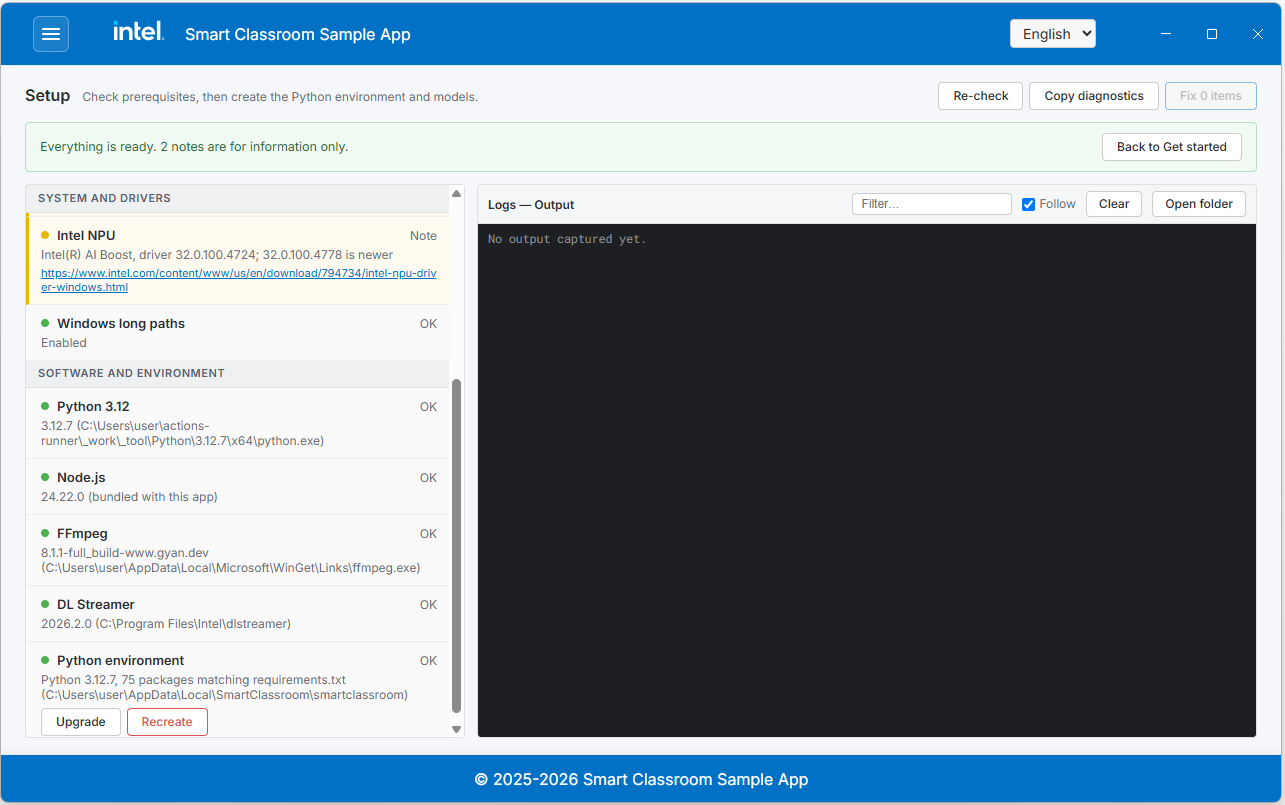
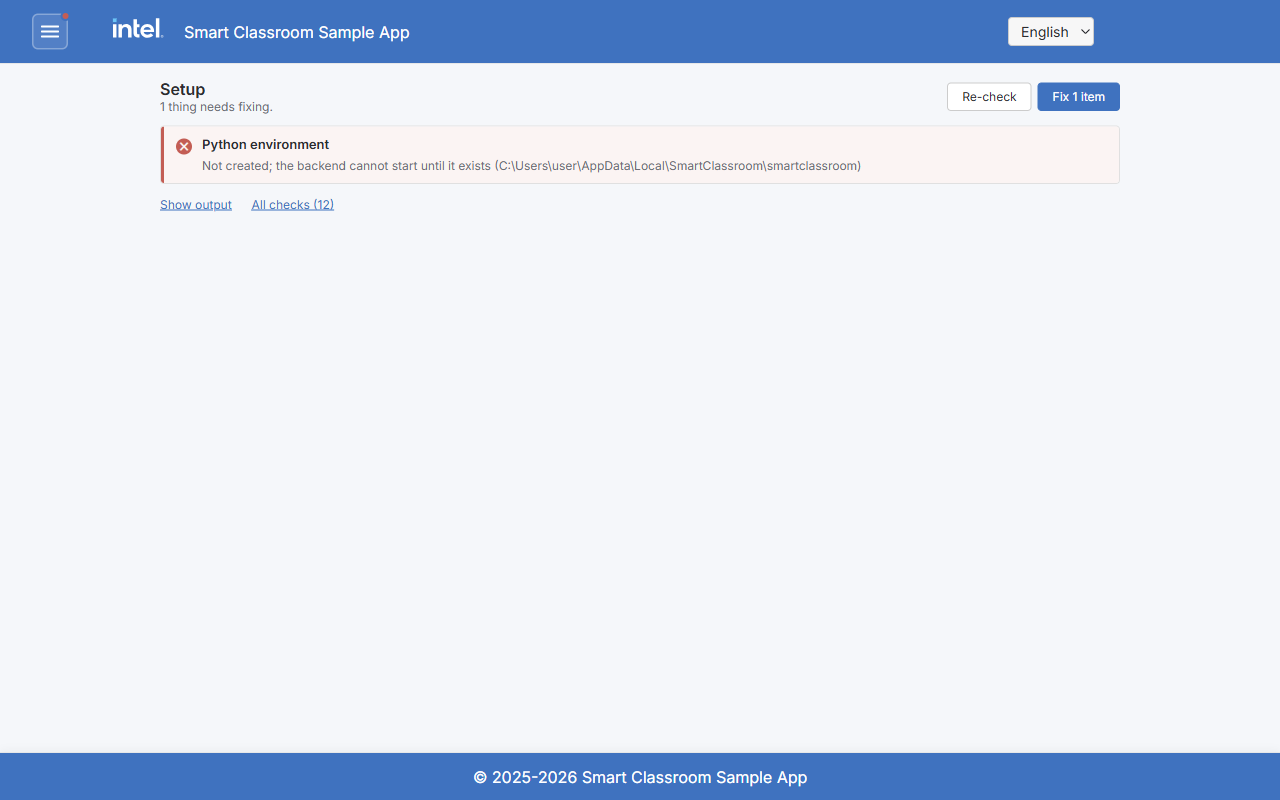
[smart classroom] Update docs for first run flow

diff --git a/smart-classroom/Windows/ui/src/components/assistant/FeaturesPage.tsx b/smart-classroom/Windows/ui/src/components/assistant/FeaturesPage.tsx
@@ -48,7 +48,7 @@ const FeaturesPage: React.FC<FeaturesPageProps> = ({ onBack, onContinue, continu
         title={t('assistant.pages.features', 'Features')}
         subtitle={t(
           'assistant.features.lead',
-          'Choose what you will use. Setup only downloads what these need. Open a group for its features and settings.'
+          "Choose what you will use. Setup only downloads what these need. A group's checkbox turns all of its features on or off."
         )}
       />
 

diff --git a/smart-classroom/docs/user-guide/get-started/get-started-windows.md b/smart-classroom/docs/user-guide/get-started/get-started-windows.md
@@ -43,75 +43,174 @@ the Python environment, sessions, and logs are stored separately for each Window
 user, also when the app is installed for everyone; see
 [Where Your Data Is Stored](#where-your-data-is-stored).
 
-## Step 3: Let the App Prepare Itself
+## Step 3: Run the Setup Assistant
 
 Launch **Smart Classroom** from the desktop or the Start menu. On the first launch the
-app prepares itself without being asked: it installs Python 3.12 and FFmpeg when they
-are missing, creates the Python environment and, when grading is enabled, the grading
-conversion environment and layout detection model. It then starts the backend. Keep the
-window open until it finishes.
+app opens the **setup assistant**. It installs everything Smart Classroom needs: Python
+3.12 and FFmpeg when they are missing, the Python environment, and the prerequisites of
+the features you choose. It then starts the backend, which downloads the AI models.
+This downloads several gigabytes and takes a while; you can leave it running.
 
-While this runs, the app shows the **Get started** screen, which lists what is still
-being worked on. Open **Setup** to follow the progress in its **Output** pane. The menu
-button at the top left switches between screens.
+The steps on the left show where you are: **Welcome**, **Network**, **Features**,
+**Administrator tasks** (only when needed), **Install**, and **Done**. The language
+selector at the top switches between English and Chinese.
 
-![Get started screen on first launch](../_assets/windows-app-get-started.png)<!--hide_directive{w=700px}hide_directive-->
+### Welcome: Install with the Recommended Settings
 
-Two items need you, because they show an administrator prompt: enabling Windows long
-paths, and installing DL Streamer for video analytics. Follow the links on **Get
-started**, or open **Setup** directly, for these and for any step that failed:
+**Welcome** checks this PC and tests the network as soon as it opens:
+
+- **This PC**: the operating system, processor, memory, free disk space, and drivers.
+  Warnings do not stop the installation.
+- **Network**: how the downloads connect. The assistant finds the proxy from the app's
+  saved settings, the `HTTP_PROXY` and `HTTPS_PROXY` environment variables, or the
+  Windows proxy settings, and tests that the download hosts answer through it.
+- **AI models**: where the models come from. When Hugging Face cannot be reached and
+  ModelScope can, the assistant chooses ModelScope.
+
+When the checks pass, a countdown starts: "Installing with recommended settings in
+15 s". When it ends, the installation starts with the recommended settings, so a first
+launch needs no input. Select **Install now** to start at once, or **Customize** to
+stop the countdown and choose the settings yourself.
+
+![Setup assistant: Welcome](../_assets/windows-app-wizard-welcome.png)<!--hide_directive{w=700px}hide_directive-->
+
+The countdown does not start in two cases, and the assistant waits for you instead:
+
+- **The network test fails.** **Network** opens and shows what each download host
+  answered: "Setup could not reach the download hosts, so it has not started
+  installing." Enter or correct the proxy, select **Test connection**, then select
+  **Next**.
+- **Less than 50 GB of disk space is free.** **Welcome** shows a warning, because
+  running out of space part-way is hard to recover from. Free some space, or select
+  **Continue anyway** to install regardless.
+
+### Customize: Network, Features, and Administrator Tasks
+
+**Customize** takes you through the settings before anything large is downloaded.
+
+**Network** shows the proxy the assistant found, and the model hub. Behind a proxy,
+enter it as `http://host:port`, or `http://user:password@host:port` when the proxy asks
+for a password. **Test connection** shows what each download host answers. Leave both
+proxies empty for a direct connection. **Next** saves the settings.
+
+![Setup assistant: Network](../_assets/windows-app-wizard-network.png)<!--hide_directive{w=700px}hide_directive-->
+
+**Features** lists the features by what you use them for: **Classroom recording**,
+**Video analytics**, **Content search**, and **Grading**. Setup only downloads what the
+features you keep need. Each group's checkbox turns all of its features on or off, and
+its features and settings are listed below it, such as the speech recognition model
+and speaker diarization. Everything is on by default except **Grading**.
+
+![Setup assistant: Features](../_assets/windows-app-wizard-features.png)<!--hide_directive{w=700px}hide_directive-->
+
+**Administrator tasks** appears only when this PC needs one of them:
+
+- **Windows long paths**, which lets downloads with deep folder paths succeed.
+- **DL Streamer**, which runs the video analytics pipelines. It is needed only while
+  video analytics is on.
+
+Windows asks an administrator to approve them, once for all of them; the prompt names
+Windows PowerShell. Choose to install them first, while you are at the screen, or to
+skip them for now and install them later on the **Setup** screen. Then select
+**Install**.
+
+### Install
+
+**Install** lists every step it will run, with the time each one takes and the line it
+printed last. While a model downloads, a progress bar shows the amount downloaded, the
+speed, and the time left. **Show details** shows the full output.
+
+![Setup assistant: Install](../_assets/windows-app-wizard-install.png)<!--hide_directive{w=700px}hide_directive-->
+
+- Your PC stays awake until the installation finishes. The taskbar icon shows the
+  progress, and a Windows notification tells you when it ends.
+- On the recommended path, administrator tasks do not hold up the installation. A card
+  offers to install them; select **Install now** and approve the prompt, or leave them
+  for later.
+- **Cancel** stops the installation. What finished stays installed, and **Resume**
+  continues with the rest. If you close the window, the app asks first, and the next
+  launch resumes the installation.
+- If a step fails, **Install** names the likely cause, such as the network, a
+  certificate, or a full disk, and offers **Retry**. For a network cause it also offers
+  **Network settings**. **Copy diagnostics** copies the details for a bug report.
+
+### Done
+
+**Done** lists what was installed and anything still to do, such as a skipped
+administrator task. The backend then starts for the first time and downloads the AI
+models, with a progress bar for each download. This first start takes a while; later
+starts are faster. When the backend is ready, select **Open Smart Classroom**.
+
+![Setup assistant: Done, during the first start](../_assets/windows-app-wizard-done.png)<!--hide_directive{w=700px}hide_directive-->
+
+If the first start fails, **Done** shows the error and its likely cause, with **Retry**.
+For a network or model hub problem it also offers **Network settings**, where **Save and
+retry** saves the settings and starts the backend again. Files already downloaded are
+kept, so a retry continues from where it stopped.
+
+> [!NOTE]
+> The setup assistant appears once for each Windows user. To install everything
+> yourself instead, select **Set up manually** on **Welcome**: the app opens the
+> **Setup** screen and installs nothing by itself.
+
+## Step 4: Fix Problems on the Setup Screen
+
+After the first run, the app prepares itself at every launch. It starts the backend
+when the Python environment is fine. When something is missing, it repairs what needs no
+administrator approval, then starts the backend. The app opens on **Setup** while
+anything needs fixing, and the ☰ menu shows how many items need work.
+
+**Setup** lists only what is not working, each with what was found:
+
+- **Fix _n_ items** fixes everything the app can fix, in order. Items marked **needs
+  administrator** show one Windows prompt for all of them, which names Windows
+  PowerShell.
+- A failed item names the likely cause. For a network cause it offers **Proxy
+  settings**; when the backend is using files that the fix replaces, it offers **Open
+  Services** to stop it first.
+- A settings problem, such as diarization turned on without a Hugging Face token,
+  offers **Show setting**, which opens **Configuration** at that setting.
+- When nothing needs fixing, **Setup** says "Everything is working", or "Everything is
+  installed" with **Start backend** when the backend is stopped.
+
+![Setup screen with an item to fix](../_assets/windows-app-setup.png)<!--hide_directive{w=700px}hide_directive-->
+
+![Setup screen when everything is working](../_assets/windows-app-setup-ready.png)<!--hide_directive{w=700px}hide_directive-->
+
+**Show output** shows what the last fix printed. **All checks** lists every check, with
+its own buttons, such as **Recreate** for the Python environment, which deletes it and
+creates it again:
 
 | Section | Covers |
 | :--- | :--- |
 | **System and drivers** | Operating system, processor, memory, free disk space, Intel GPU and NPU drivers, Windows long paths |
 | **Software and environment** | Python 3.12, Node.js (bundled with the app), FFmpeg, DL Streamer, the Python environment, and the grading conversion environment and layout detection model |
 
-Each row shows what was found and what it blocks. Rows the app can fix have a button:
+**Copy diagnostics**, under **All checks**, puts the whole list on the clipboard for a
+bug report.
 
-- **Install** for Python, FFmpeg, and Deep Learning Streamer (DL Streamer)
-- **Create** for the Python environment and the grading conversion environment
-- **Prepare** for the layout detection model
-- **Enable** for Windows long paths (shows an administrator prompt)
+## Step 5: Review the Settings
 
-**Fix _n_ items** at the top runs everything outstanding in order. **Copy
-diagnostics** puts the whole list on the clipboard for a bug report.
-
-![Setup screen](../_assets/windows-app-setup.png)<!--hide_directive{w=700px}hide_directive-->
-
-> [!IMPORTANT]
-> If you are behind a proxy, the first launch uses the `HTTP_PROXY` and `HTTPS_PROXY`
-> environment variables of your Windows account. If they are not set, the downloads
-> fail and **Setup** shows the failed rows. Set the proxy on the **Get started** or
-> **Configuration** screen, then select **Fix _n_ items** on **Setup** to continue.
-
-> [!NOTE]
-> Creating the Python environment downloads several gigabytes, and preparing
-  the layout detection model downloads and converts it. Both take a while on a first run.
-
-If you close the app before setup finishes, the next launch continues where it
-stopped.
-
-## Step 4: Review the Settings
-
-**Get started** shows the settings most people change. The **Configuration** screen has
-the full list from `config.yaml` and `.proxy-config`, grouped and searchable.
-**Show file** opens the file the screen writes to. For what each setting does, see
+The **Configuration** screen has the full list of settings from `config.yaml` and
+`.proxy-config`, grouped and searchable. Its **Features** and **Proxy** groups are the
+same as the setup assistant's pages, including **Test connection**. **Show file** opens
+the file the screen writes to. For what each setting does, see
 [Configure the Application](../advanced-setup-guide.md#configure-the-application).
 
 ![Configuration screen](../_assets/windows-app-configuration.png)<!--hide_directive{w=700px}hide_directive-->
 
 > [!NOTE]
 > Speaker diarization (identifying who is speaking) is optional and requires a
-  one-time Hugging Face access token. The **Get started** screen flags this when
-  diarization is enabled without a token; set it under **Configuration**, or see
+  one-time Hugging Face access token. **Setup** flags this when diarization is enabled
+  without a token; set it under **Configuration**, or see
   [Speaker Diarization Setup](../advanced-setup-guide.md#f-speaker-diarization-setup-optional).
 
-## Step 5: Check the Backend
+## Step 6: Check the Backend
 
 The app starts the backend at every launch once the Python environment exists. If you
 stopped it, or it failed to start, start it in either of these ways:
 
-- Select **Start backend** on the **Get started** screen.
+- Select **Start backend** on the **Setup** screen.
 - Open **Services** and select **Start** on the backend row.
 
 ![Services screen with live logs](../_assets/windows-app-services.png)<!--hide_directive{w=700px}hide_directive-->
@@ -142,8 +241,10 @@ For a walkthrough of each feature, see [Application Flow](../application-flow.md
 1. Stop the backend on the **Services** screen and close the app.
 2. Download and run the newer `SmartClassroom-<version>-setup.exe`. It installs over
    the existing version in the same folder; you do not need to uninstall first.
-3. Launch the app and open **Setup**. If the **Python environment** row shows
-   **Outdated**, select **Upgrade** to match the new release's requirements.
+3. Launch the app. The setup assistant does not appear for an update. If the new
+   release needs different Python packages, **Setup** lists the **Python environment**
+   as outdated. Stop the backend on the **Services** screen, then select **Fix 1 item**
+   on **Setup** to upgrade it.
 
 Models, the Python environments, sessions, and content search data are kept across
 updates. Your settings are kept too, unless the new version ships different default
@@ -167,7 +268,9 @@ running it:
 | `smartclassroom\` | Python environment for the backend |
 | `venv_convert\` | Grading conversion environment |
 | `models\` | Downloaded and converted AI models |
-| `storage\` | Session recordings, transcripts, summaries, and reports |
+| `storage\` | Session recordings, transcripts, summaries, and reports, and the GStreamer plugin cache |
+| `chunks\` | Audio being transcribed, removed when the backend stops |
+| `components\va\bin\mediamtx\` | The MediaMTX streaming server for video analytics, downloaded on first use |
 | `content_search\` | Uploaded materials and the content search vector database |
 | `grading\` | Grading configuration, uploaded rubrics, and grading results |
 | `logs\` | Service logs (**Open folder** on the **Services** screen opens them) and configuration backups, including the `pre-update.*.bak` files saved by updates |
@@ -186,7 +289,27 @@ The installer accepts the standard silent-install options:
 .\SmartClassroom-<version>-setup.exe /S /allusers
 ```
 
-The first-run work on the **Setup** screen is interactive and cannot be scripted.
+To prepare the machine without opening a window, run the app with `--setup-only`. It
+installs what the setup assistant would install with the recommended settings, except
+the administrator tasks, then exits:
+
+```powershell
+# Use "C:\Program Files\Smart Classroom" for an install for all users
+$app = "$env:LOCALAPPDATA\Programs\Smart Classroom\Smart Classroom.exe"
+(Start-Process $app -ArgumentList --setup-only -Wait -PassThru).ExitCode
+```
+
+| Exit code | Meaning |
+| :--- | :--- |
+| `0` | Everything is ready. |
+| `1` | A step failed, or the backend still cannot start. |
+| `2` | The backend can start, but items remain that need an administrator prompt or a confirmation on the **Setup** screen, such as Windows long paths or DL Streamer. |
+
+`--setup-only` prints nothing to the console, because the app is not a console program.
+Its output is in the `setup-*.log` files under `%LOCALAPPDATA%\SmartClassroom\logs\manager`.
+It uses the proxy saved by the app or set in the `HTTP_PROXY` and `HTTPS_PROXY`
+environment variables. The AI models are downloaded when the backend first starts.
+After a successful run, the app does not show the setup assistant.
 
 ## Troubleshooting and Uninstall
 

diff --git a/smart-classroom/docs/user-guide/advanced-setup-guide.md b/smart-classroom/docs/user-guide/advanced-setup-guide.md
@@ -210,8 +210,9 @@ Get-Command soffice
 
 ## Network Requirements
 
-- **Proxy**: If you are behind a proxy, set `HTTP_PROXY` and `HTTPS_PROXY` on the
-  **Configuration** screen under **Proxy**.
+- **Proxy**: The setup assistant sets the proxy on the first launch. To change it later,
+  set `HTTP_PROXY` and `HTTPS_PROXY` on the **Configuration** screen under **Proxy**, and
+  select **Test connection** to check that the download hosts answer through it.
 - **Model downloads**: Stable access to `huggingface.co` is required to download
   pre-trained models.
 - **Model hub**: `models.model_hub` (**Model hub** on the **Configuration** screen) selects
@@ -223,7 +224,8 @@ Get-Command soffice
 - **Hugging Face mirror**: set `models.hf_endpoint` (**Hugging Face mirror**) to a mirror such as
   `https://hf-mirror.com`. An `HF_ENDPOINT` environment variable takes precedence.
 - **Windows long paths**: Model downloads with deep paths can fail when long paths are
-  disabled. Select **Enable** on the **Windows long paths** row of the **Setup** screen.
+  disabled. The **Setup** screen lists them when they are; select **Fix _n_ items** and
+  approve the administrator prompt.
 
 ## Troubleshooting
 
@@ -232,16 +234,17 @@ Stop the backend before you delete it.
 
 - **Backend fails to start or stops unexpectedly:**
   Open **Services** and read the backend's live logs, or select **Open folder** to see
-  the log files. Then open **Setup** and select **Re-check**: a row marked **Missing**,
-  **Outdated**, or **Failed** names what to fix. **Copy diagnostics** copies the full
-  check list for a bug report.
+  the log files. Then open **Setup** and select **Re-check**: it lists what is missing,
+  outdated, or failed, and **Fix _n_ items** fixes it. **Copy diagnostics**, under
+  **All checks**, copies the full check list for a bug report.
 
 - **Error: `Port for tensor name cache_position was not found.`**
   This means the models were not configured correctly.
   To fix this:
 
   1. Delete the `models` folder.
-  2. Open **Setup** and select **Upgrade** on the **Python environment** row.
+  2. Open **Setup**, select **All checks**, and select **Upgrade** on the **Python
+     environment** row.
   3. Start the backend again. The models are downloaded and converted again.
 
 - **Application crash during bring-up on Intel® Core™ Ultra Series 3 and Intel® Core™ Series 3 processors without any error indication:** Sometimes OpenVINO™ GenAI models may crash on newer hardware. Try running the model on CPU by setting `device: CPU` under `models.text_gen` in `config.yaml`.

diff --git a/smart-classroom/docs/user-guide/get-started.md b/smart-classroom/docs/user-guide/get-started.md
@@ -10,9 +10,11 @@ On either system, setting up Smart Classroom takes the same four stages:
 
 1. Check that your machine meets the [System Requirements](./get-started/system-requirements.md).
 2. Get the application: on Windows, download the installer; on Linux, clone the repository.
-3. Configure features, models, and (optionally) speaker diarization in `config.yaml`.
-4. Install the prerequisites and start the services: on Windows, from the desktop app;
-   on Linux, with `setup.sh`, then open the UI at <http://localhost:5173>.
+3. Configure features, models, and (optionally) speaker diarization: on Windows, in the
+   desktop app's setup assistant; on Linux, in `config.yaml`.
+4. Install the prerequisites and start the services: on Windows, the setup assistant
+   does this on the first launch; on Linux, run `setup.sh`, then open the UI at
+   <http://localhost:5173>.
 
 ## Choose Your Operating System
 
@@ -24,7 +26,9 @@ On either system, setting up Smart Classroom takes the same four stages:
 
 Desktop app installed from `SmartClassroom-<version>-setup.exe`, available on the
 [Releases page](https://github.com/open-edge-platform/education-ai-suite/releases).
-The app installs the prerequisites, edits the configuration, and runs the services.
+On the first launch, its setup assistant installs the prerequisites, with a chance to
+choose the proxy and the features first. The app then edits the configuration and runs
+the services.
 
 - **OS**: Windows 11
 - **Run with**: the **Smart Classroom** desktop app
@@ -62,9 +66,11 @@ For the steps to apply the token, see the guide for your operating system, or th
 
 ### Network Requirements
 
-- **Proxy**: If you are behind a proxy, configure `HTTP_PROXY` and `HTTPS_PROXY`. On
-  Windows, set them on the desktop app's **Configuration** screen. On Linux, configure
-  them, and `NO_PROXY`, for your shell and for Docker.
+- **Proxy**: On Windows, the setup assistant finds the proxy from the environment
+  variables or the Windows proxy settings and tests it; when the test fails, it waits on
+  its **Network** page for you to enter the proxy. Later, change it on the
+  **Configuration** screen. On Linux, configure `HTTP_PROXY`, `HTTPS_PROXY`, and
+  `NO_PROXY` for your shell and for Docker.
 - **Model downloads**: Stable access to `huggingface.co` is required to download
   pre-trained models.
 

diff --git a/smart-classroom/docs/user-guide/application-flow.md b/smart-classroom/docs/user-guide/application-flow.md
@@ -7,8 +7,9 @@ This documentation provides the end-to-end flow of the application, helps you in
 > previous release:
 >
 > - The ☰ menu at the top left is the main navigation. It opens **Home**, **Content Search**, and
->   **Smart Grading**, plus the **Get started**, **Setup**, **Configuration**, and **Services**
->   tools.
+>   **Smart Grading**, plus the **Setup**, **Configuration**, and **Services** tools.
+> - On the first launch, a setup assistant installs everything the app needs. See
+>   [Get Started on Windows](./get-started/get-started-windows.md#step-3-run-the-setup-assistant).
 > - **Report** and **History** buttons sit at the right of the toolbar on the Home screen.
 > - The right panel has new **Performance Metrics**, **Resource Utilization**, and
 >   **Class Engagement** views.
